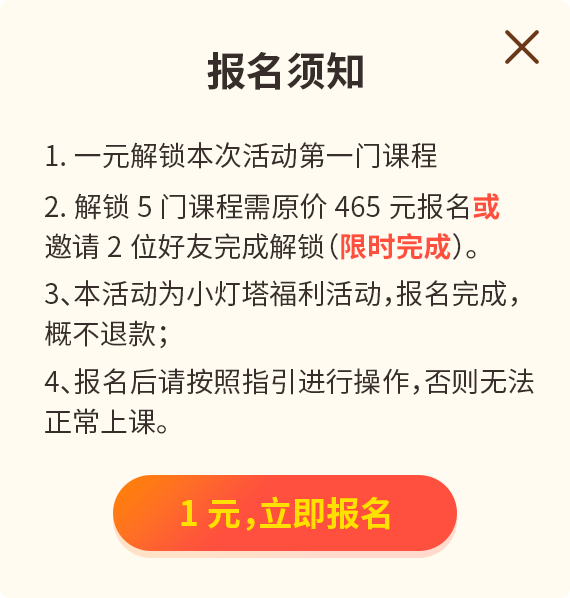
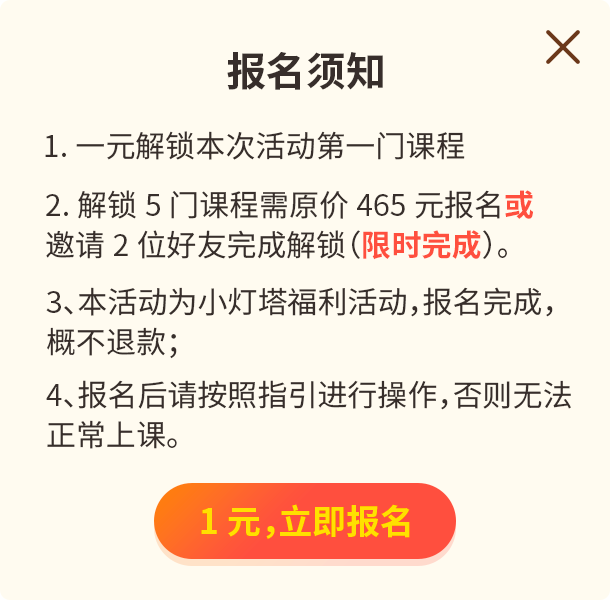
no message

diff --git a/src/views/activity/active_11/active_11.vue b/src/views/activity/active_11/active_11.vue
@@ -99,6 +99,9 @@ import { getBeaconsApi } from '@/api/pages/home'
     }
 
     created () {
+
+      this.isShow = true
+      this.buy_state = 'left'
       let that = this
       if(that.$route.query){
         that.statistics = that.$route.query
@@ -386,9 +389,8 @@ import { getBeaconsApi } from '@/api/pages/home'
       
     }
     .buy_block {
-
-      width: 235px;
-      height: 249px;
+      width: 305px;
+      height: 300px;
       background: #cccccc;
       position: relative;
       .clo {
@@ -399,12 +401,12 @@ import { getBeaconsApi } from '@/api/pages/home'
         top: 4px;
       }
       .buy {
-        width: 140px;
-        height: 30px;
+        width: 150px;
+        height: 38px;
         position: absolute;
         bottom: 20px;
         left: 50%;
-        margin-left: -70px;
+        margin-left: -75px;
       }
     }
     .buy_success {
